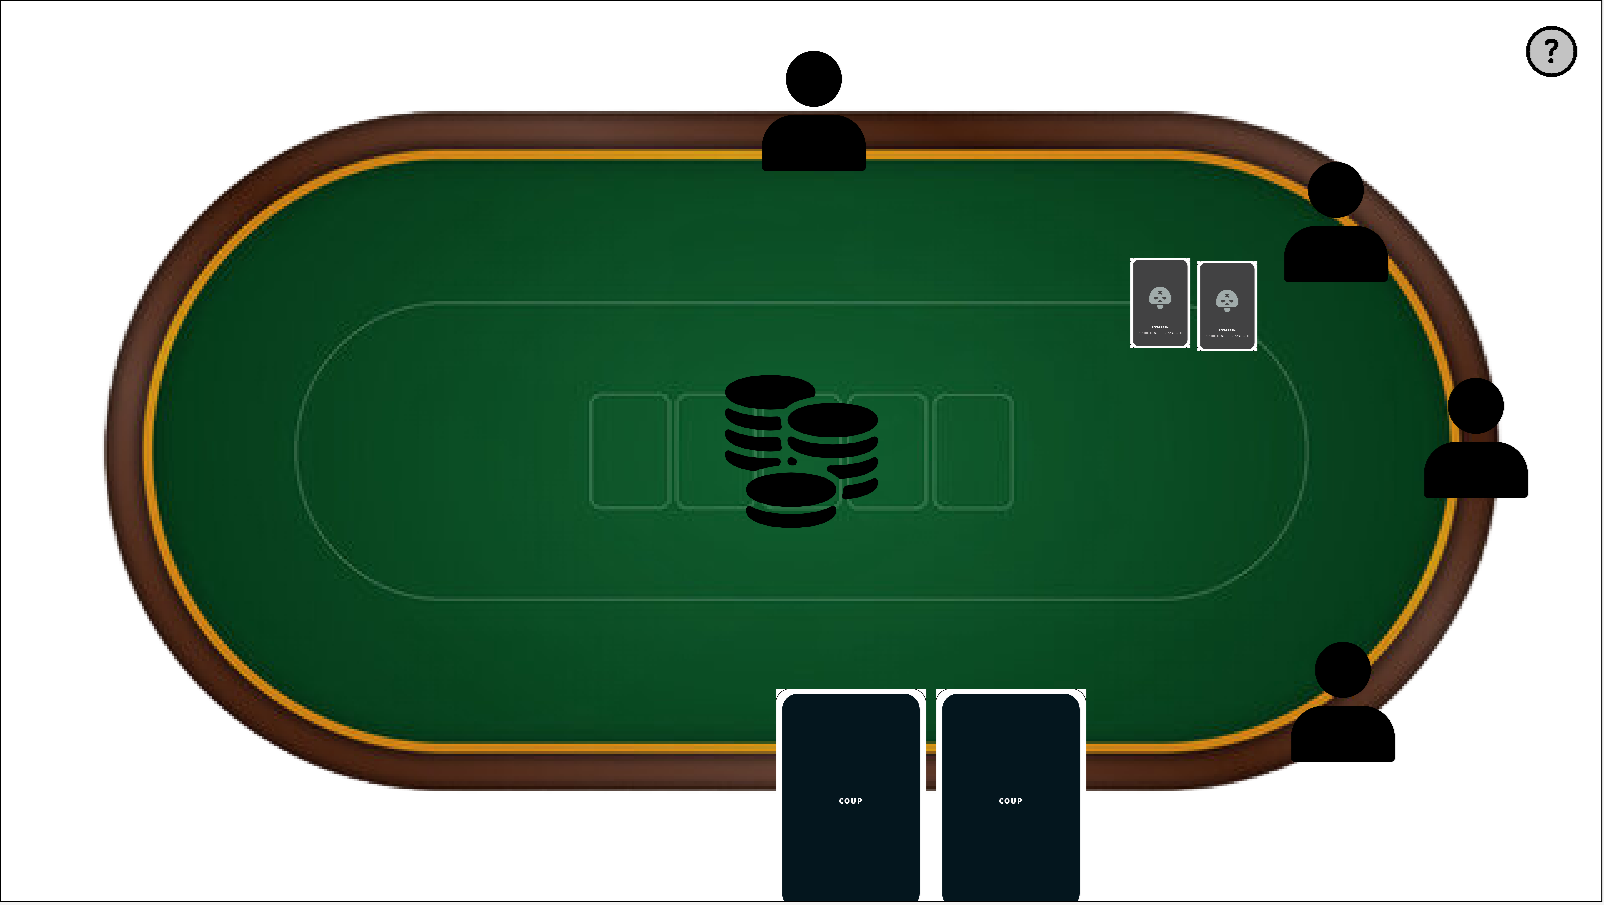
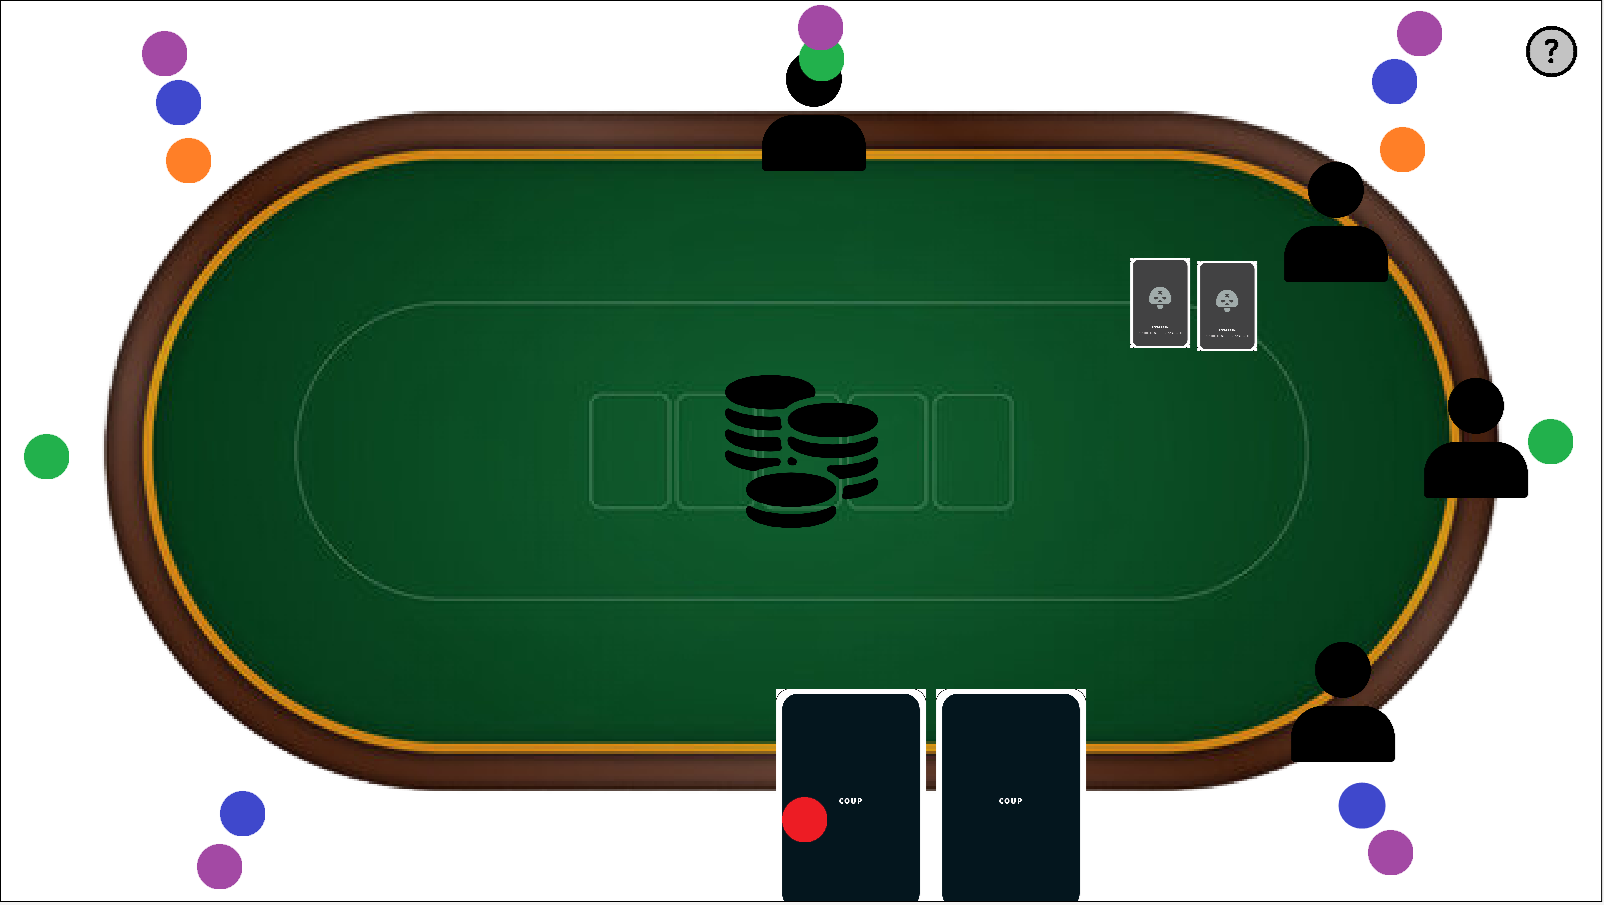
other players

diff --git a/final_project/client_greenfoot/GameManager.java b/final_project/client_greenfoot/GameManager.java
@@ -24,6 +24,8 @@ public class GameManager extends Actor
     
     ArrayList<HeldCard.CardType> deckOfCards = new ArrayList<HeldCard.CardType>(); 
     
+    int[][] allPlayerPos = {{300, 700}, {150, 450}, {300, 200}, {800, 100}, {1300, 200}, {1450, 450}, {1300, 700}};
+    
     Random rand = new Random();
     
     public HeldCard.CardType hand1;
@@ -32,8 +34,6 @@ public class GameManager extends Actor
     public HeldCard card1;
     public HeldCard card2;
     
-
-
     public GameManager(){
         //make invisible
         GreenfootImage img = new GreenfootImage(1, 1);
@@ -47,6 +47,48 @@ public class GameManager extends Actor
         
     }
 
+    public void setPlayers(int numPlayers){
+        
+        int [][] customPlayerPos = new int[numPlayers-1][1];
+        
+        switch(numPlayers){
+            case 3:
+                customPlayerPos[0] = allPlayerPos[2];
+                customPlayerPos[1] = allPlayerPos[4];
+                break;
+            
+            case 4:
+                customPlayerPos[0] = allPlayerPos[2];
+                customPlayerPos[1] = allPlayerPos[4];
+                customPlayerPos[2] = allPlayerPos[2];
+                break;
+                
+            case 5:
+                customPlayerPos[0] = allPlayerPos[2];
+                customPlayerPos[1] = allPlayerPos[4];
+                customPlayerPos[2] = allPlayerPos[2];
+                customPlayerPos[3] = allPlayerPos[4];
+                break;
+                
+            case 6:
+                customPlayerPos[0] = allPlayerPos[2];
+                customPlayerPos[1] = allPlayerPos[4];
+                customPlayerPos[2] = allPlayerPos[2];
+                customPlayerPos[3] = allPlayerPos[4];
+                customPlayerPos[4] = allPlayerPos[2];
+                break;
+            
+        }
+        
+        for(int i = 0; i < customPlayerPos.length; i++){
+            
+            EnemyPlayer player = new EnemyPlayer(customPlayerPos[i][0], customPlayerPos[i][1], getWorld(), i+1);
+            
+            
+            getWorld().addObject(player, customPlayerPos[i][0], customPlayerPos[i][1]);
+        }
+    }
+    
     public void setDeck(){
         for (HeldCard.CardType card : HeldCard.CardType.values()) {
             if(card != HeldCard.CardType.UNK){
@@ -91,6 +133,8 @@ public class GameManager extends Actor
             
             assignCard(true, pullACard());
             assignCard(false, pullACard());
+            
+            setPlayers(3);
         }
     }
 

diff --git a/final_project/client_greenfoot/EnemyPlayer.java b/final_project/client_greenfoot/EnemyPlayer.java
@@ -9,15 +9,53 @@ import greenfoot.*;  // (World, Actor, GreenfootImage, Greenfoot and MouseInfo)
 public class EnemyPlayer extends Actor
 {
     
+    public int scrNum;
     private GreenfootImage image;
+    public HeldCard card1;
+    public HeldCard card2;
     
-    public EnemyPlayer(){
+    private int xOffset = 130;
+    private int yOffset = 130;
+    private int xPos;
+    private int yPos;
+    private World world;
+    
+    public EnemyPlayer(int x, int y, World world, int num){
         setImage("player.png");
         image = getImage();
         image.scale((int)(image.getWidth()/4), (int)(image.getHeight()/4));
         image.setTransparency(255);
         
         setImage(image);
+        
+        xPos = x;
+        yPos = y;
+        
+        this.world = world;
+        scrNum = num;
+        
+        card1 = new HeldCard(HeldCard.CardType.UNK, 0.1f);
+        card2 = new HeldCard(HeldCard.CardType.UNK, 0.1f);
+        
+        spawnCards();
+        
+    }
+    
+    private void spawnCards(){
+        if(scrNum>4){
+            xOffset = xOffset*-1;
+        }else if(scrNum == 4){
+            xOffset = 0;
+        }
+        
+        if(scrNum == 1 || scrNum == 7){
+            yOffset = yOffset*-1;
+        }else if(scrNum == 2 || scrNum == 6){
+            yOffset = 0;
+        }
+        
+        world.addObject(card1, xPos + xOffset - 35, yPos + yOffset);
+        world.addObject(card2, xPos + xOffset + 35, yPos + yOffset);
     }
     
     public void act()
